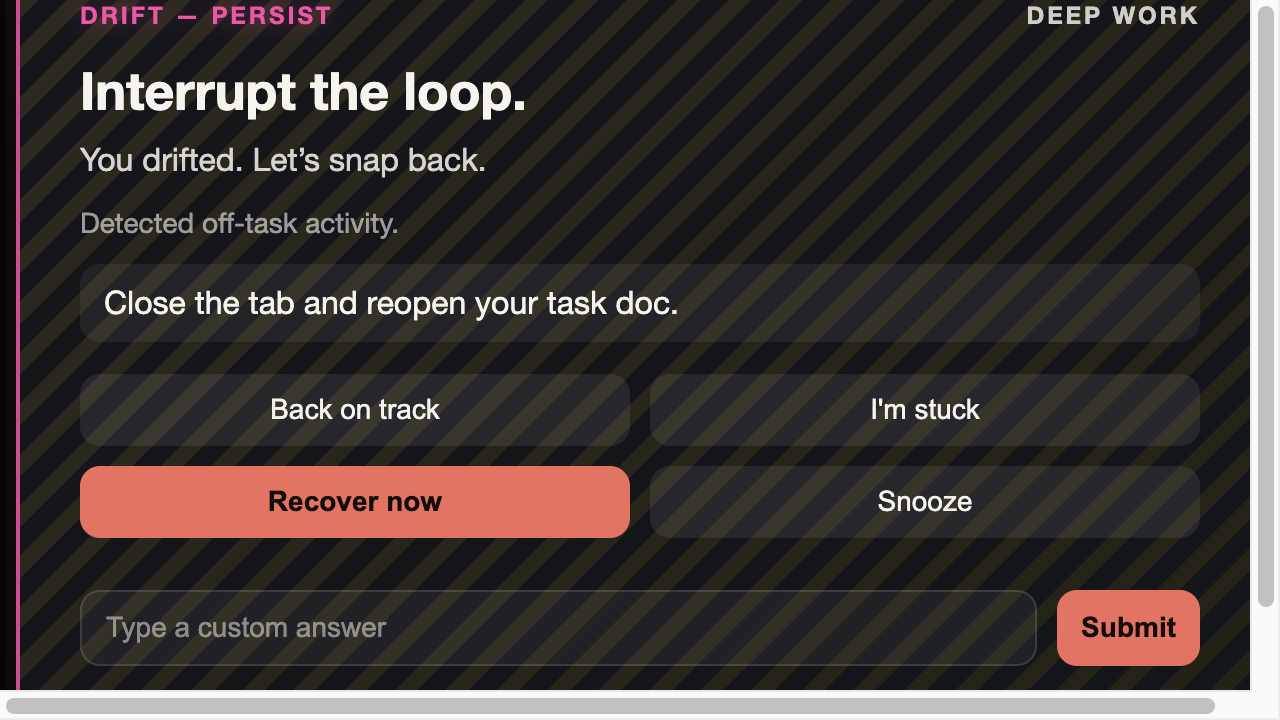
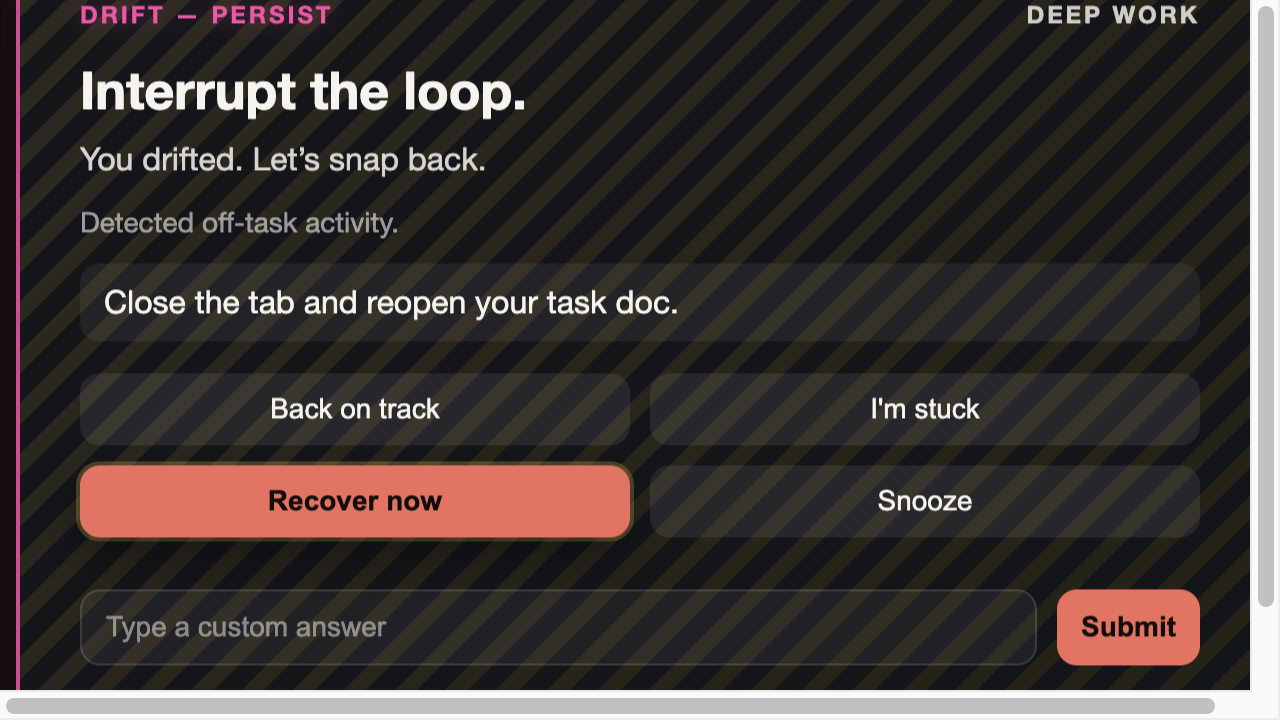
overlay: make Recover primary on DRIFT_PERSIST

diff --git a/overlay/overlay.js b/overlay/overlay.js
@@ -125,6 +125,18 @@ function showOverlay(payload) {
   resetAlignInput();
   updateEventLabel(payload);
   updatePrimaryLabel(payload);
+
+  // Pattern-break UX: when drift persists, make the recovery path the obvious next step.
+  const isPersist = overlay.dataset.eventType === "DRIFT_PERSIST";
+  if (isPersist && (payload.level || "B") === "B") {
+    backBtn.classList.remove("primary");
+    recoverBtn.classList.add("primary");
+    setText(enterHint, "Enter: Recover schedule");
+  } else {
+    recoverBtn.classList.remove("primary");
+    backBtn.classList.add("primary");
+    setText(enterHint, "Enter: Back on track");
+  }
   updatePrimaryButton(payload);
   updatePrimaryAction(payload);
 

diff --git a/overlay/overlay.css b/overlay/overlay.css
@@ -259,3 +259,9 @@ button.primary:focus-visible {
   color: #ff49a7;
   text-shadow: 0 0 10px rgba(255, 73, 167, 0.35);
 }
+
+#overlay[data-event-type="DRIFT_PERSIST"] #recoverBtn.primary {
+  box-shadow:
+    0 12px 26px rgba(0, 0, 0, 0.35),
+    0 0 0 2px rgba(255, 206, 61, 0.25);
+}
